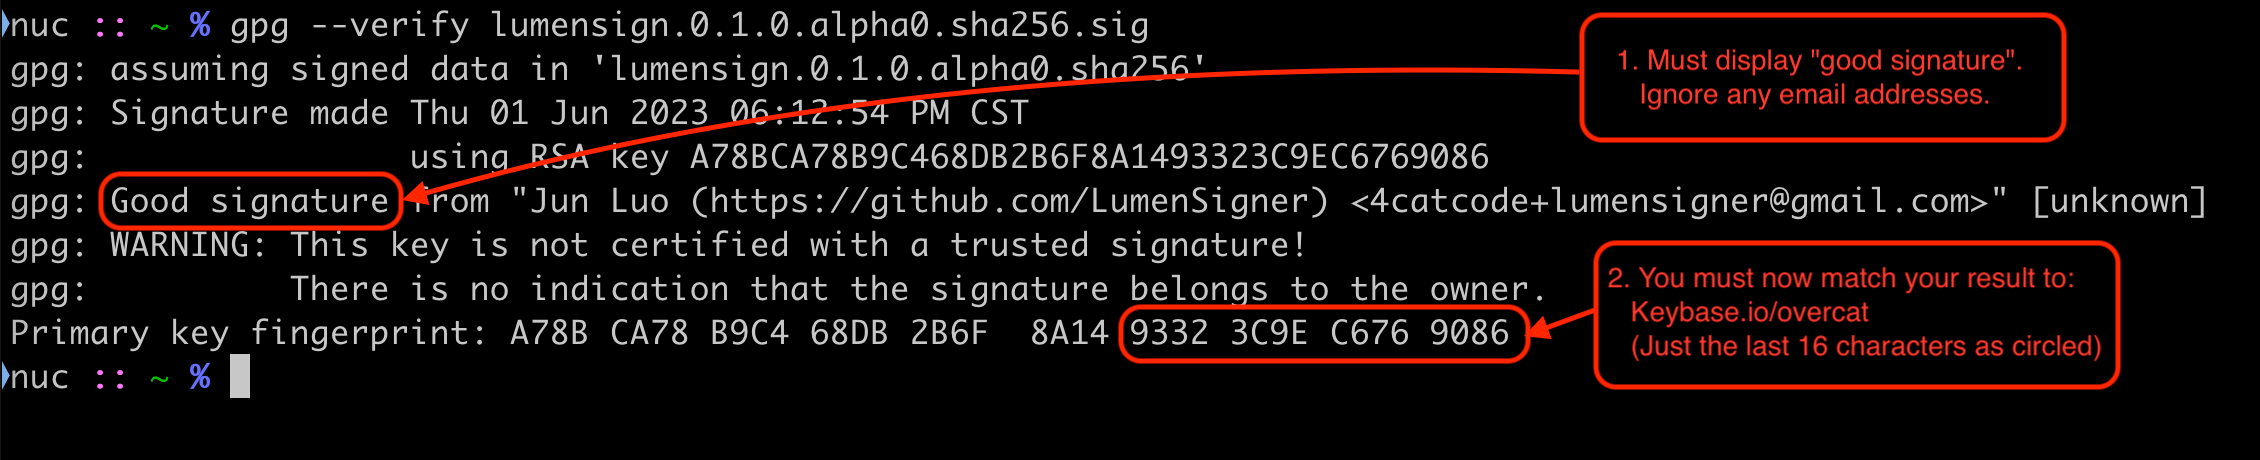
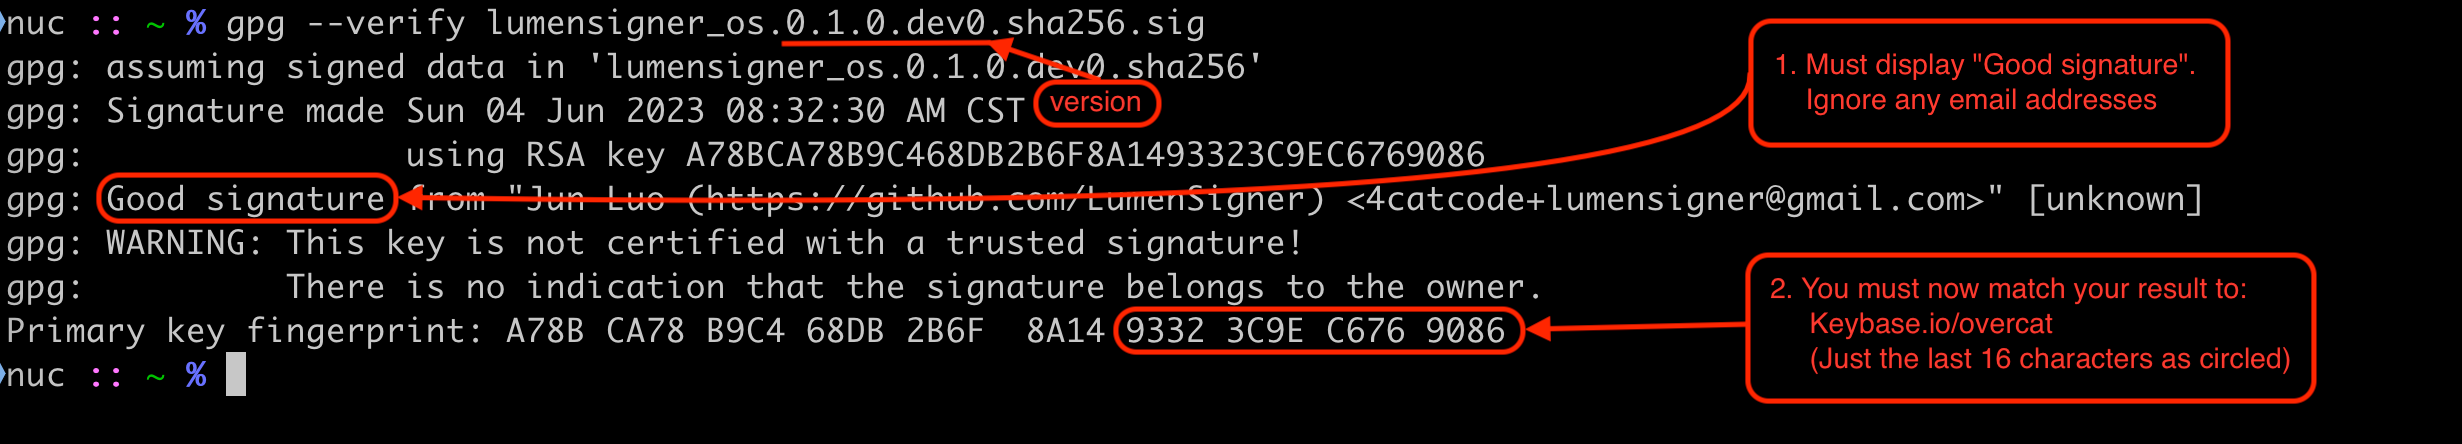
Correcting the verification process.

Changed region(s): [[0.0, 0.0, 0.9912, 0.9077], [0.7124, 0.8784, 0.9602, 0.9077]]

diff --git a/README.md b/README.md
@@ -67,22 +67,22 @@ However, one of the many advantages of the open source software model is that th
 ## Downloading the Software
 
    
-Download the current Version (0.6.0) software image that is compatible with your  Raspberry Pi Hardware. The Pi Zero 1.3 is the most common and recommended board.
+Download the current Version (0.1.0.dev0) software image that is compatible with your  Raspberry Pi Hardware. The Pi Zero 1.3 is the most common and recommended board.
 | Board                 | Download Image Link/Name          |
 | --------------------- | --------------------------------- |
-|**[Raspberry Pi Zero 1.3](https://www.raspberrypi.com/products/raspberry-pi-zero/)**      |[`lumensigner.0.1.0.pi0.img`](https://github.com/LumenSigner/lumensigner/releases/)      |
-|[Raspberry Pi Zero W](https://www.raspberrypi.com/products/raspberry-pi-zero-w/)    |[`lumensigner.0.1.0.pi0.img`](https://github.com/LumenSigner/lumensigner/releases/)      |
-|[Raspberry Pi Zero 2 W](https://www.raspberrypi.com/products/raspberry-pi-zero-2-w/)  |[`lumensigner.0.1.0.pi02w.img`](https://github.com/LumenSigner/lumensigner/releases/)    |
-|[Raspberry Pi 2 Model B](https://www.raspberrypi.com/products/raspberry-pi-2-model-b/) |[`lumensigner.0.1.0.pi2.img`](https://github.com/LumenSigner/lumensigner/releases/)      |
-|[Raspberry Pi 3 Model B](https://www.raspberrypi.com/products/raspberry-pi-3-model-b/) |[`lumensigner.0.1.0.pi02w.img`](https://github.com/LumenSigner/lumensigner/releases/download/)    |
-|[Raspberry Pi 4 Model B](https://www.raspberrypi.com/products/raspberry-pi-4-model-b/) |[`lumensigner.0.1.0.pi4.img`](https://github.com/LumenSigner/lumensigner/releases/download/0.6.0/)      |
-|[Raspberry Pi 400](https://www.raspberrypi.com/products/raspberry-pi-400-unit/) |[`lumensigner.0.1.0.pi4.img`](https://github.com/LumenSigner/lumensigner/releases/download/)      |
+|**[Raspberry Pi Zero 1.3](https://www.raspberrypi.com/products/raspberry-pi-zero/)**      |[`lumensigner_os.0.1.0.dev0.pi0.img`](https://github.com/LumenSigner/lumensigner/releases/download/0.1.0.dev0/lumensigner_os.0.1.0.dev0.pi0.img)      |
+|[Raspberry Pi Zero W](https://www.raspberrypi.com/products/raspberry-pi-zero-w/)    |[`lumensigner_os.0.1.0.dev0.pi0.img`](https://github.com/LumenSigner/lumensigner/releases/download/0.1.0.dev0/lumensigner_os.0.1.0.dev0.pi0.img)      |
+|[Raspberry Pi Zero 2 W](https://www.raspberrypi.com/products/raspberry-pi-zero-2-w/)  |[`lumensigner_os.0.1.0.dev0.pi02w.img`](https://github.com/LumenSigner/lumensigner/releases/download/0.1.0.dev0/lumensigner_os.0.1.0.dev0.pi02w.img)    |
+|[Raspberry Pi 2 Model B](https://www.raspberrypi.com/products/raspberry-pi-2-model-b/) |[`lumensigner_os.0.1.0.dev0.pi2.img`](https://github.com/LumenSigner/lumensigner/releases/download/0.1.0.dev0/lumensigner_os.0.1.0.dev0.pi2.img)      |
+|[Raspberry Pi 3 Model B](https://www.raspberrypi.com/products/raspberry-pi-3-model-b/) |[`lumensigner_os.0.1.0.dev0.pi02w.img`](https://github.com/LumenSigner/lumensigner/releases/download/0.1.0.dev0/lumensigner_os.0.1.0.dev0.pi02w.img)    |
+|[Raspberry Pi 4 Model B](https://www.raspberrypi.com/products/raspberry-pi-4-model-b/) |[`lumensigner_os.0.1.0.dev0.pi4.img`](https://github.com/LumenSigner/lumensigner/releases/download/0.1.0.dev0/lumensigner_os.0.1.0.dev0.pi4.img)      |
+|[Raspberry Pi 400](https://www.raspberrypi.com/products/raspberry-pi-400-unit/) |[`lumensigner_os.0.1.0.dev0.pi4.img`](https://github.com/LumenSigner/lumensigner/releases/download/0.1.0.dev0/lumensigner_os.0.1.0.dev0.pi4.img)      |
 
 Note: If you have physically removed the WiFi component from your board, you will still use the image file of the original(un-modified) hardware. (Our files are compiled/based on the *processor* architecture). Although it is better to spend a few minutes upfront to determine which specific Pi hardware/model you have, if you are still unsure which hardware you have, you can try using the pi0.img file. Making an incorrect choice here will not ruin your board, because this is software, not firmware. 
 
 **also download** these 2 signature verification files to the same folder  
-[The Plaintext manifest file](https://github.com/LumenSigner/lumensigner/TODO)  
-[The Signature of the manifest file](https://github.com/LumenSigner/lumensigner/TODO)
+[The Plaintext manifest file](https://github.com/LumenSigner/lumensigner/releases/download/0.1.0.dev0/lumensigner_os.0.1.0.dev0.sha256)  
+[The Signature of the manifest file](https://github.com/LumenSigner/lumensigner/releases/download/0.1.0.dev0/lumensigner_os.0.1.0.dev0.sha256.sig)
 
 Once the files have all finished downloading, follow the steps below to verify the download before continuing on to write the software onto a MicroSD card. Next, insert the MicroSD into your assembled hardware and connect the USB power. Allow about 45 seconds for our logo to appear, and then you can begin using your LumenSigner! 
 
@@ -109,7 +109,7 @@ The result should confirm that 1 key was *either* imported or updated. *Ignore* 
 
 Next, you will run the *verify* command on the signature (.sig) file. (*Verify* must be run from inside the same folder that you downloaded the files into earlier. The `*`'s in this command will auto-fill the version from your current folder, so it should be copied and pasted as-is.)   
 ```
-gpg --verify lumensign.0.1.0.alpha0.sha256.sig
+gpg --verify lumensigner_os.0.1.0.dev0.sha256.sig
 ```
 
 When the verify command completes successfully, it should display output like this:
@@ -181,14 +181,14 @@ shasum -a 256 --ignore-missing --check lumensigner.0.1.*.sha256
 
 **On Windows (inside Powershell):** Run this command
 ```
-CertUtil -hashfile  lumensigner.0.1.0.Insert_Your_Pi_Models_binary_here_For_Example_pi02w.img SHA256 
+CertUtil -hashfile gpg --verify lumensigner_os.0.1.0.dev0.Insert_Your_Pi_Models_binary_here_For_Example_pi02w.img SHA256 
 ```
 On Windows, you must then manually compare the resulting file hash value to the corresponding hash value shown inside the .SHA256 cleartext file.
  <BR>
 
 Wait up to 30 seconds for the command to complete, and it should display:
 ```
-lumensigner.0.1.x.[Your_Pi_Model_For_Example:pi02w].img: OK
+lumensigner_os.0.1.0.dev0.[Your_Pi_Model_For_Example:pi02w].img: OK
 ```
 **If you receive the "OK" message** for your **lumensigner.0.1.x.[Your_Pi_Model_For_Example:pi02w].img file**, as shown above, then your verification is fully complete!  
 **All of your downloaded files have now been confirmed as both authentic and unaltered!** You can proceed to create/write your MicroSD card😄😄 !!     
